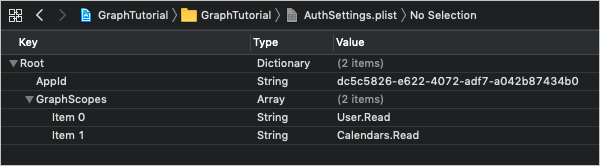
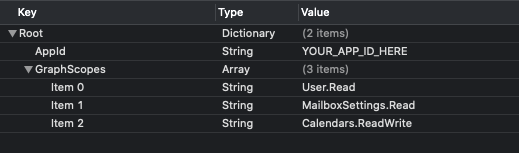
Update auth step

diff --git a/tutorial/04-add-aad-auth.md b/tutorial/04-add-aad-auth.md
@@ -8,9 +8,9 @@ In this exercise you will extend the application from the previous exercise to s
     | Key | Type | Value |
     |-----|------|-------|
     | `AppId` | String | The application ID from the Azure portal |
-    | `GraphScopes` | Array | Two String values: `User.Read` and `Calendars.Read` |
+    | `GraphScopes` | Array | Three String values: `User.Read`, `MailboxSettings.Read`, and `Calendars.ReadWrite` |
 
-    ![A screenshot of the AuthSettings.plist file in Xcode](./images/auth-settings.png)
+    ![A screenshot of the AuthSettings.plist file in Xcode](images/auth-settings.png)
 
 > [!IMPORTANT]
 > If you're using source control such as git, now would be a good time to exclude the **AuthSettings.plist** file from source control to avoid inadvertently leaking your app ID.
@@ -76,7 +76,7 @@ In this section you will configure the project for MSAL, create an authenticatio
 
 If you sign in to the app, you should see an access token displayed in the output window in Xcode.
 
-![A screenshot of the output window in Xcode showing an access token](./images/access-token-output.png)
+![A screenshot of the output window in Xcode showing an access token](images/access-token-output.png)
 
 ## Get user details
 
@@ -102,7 +102,8 @@ In this section you will create a helper class to hold all of the calls to Micro
 
         public func getMe(completion: @escaping(MSGraphUser?, Error?) -> Void) {
             // GET /me
-            let meRequest = NSMutableURLRequest(url: URL(string: "\(MSGraphBaseURL)/me")!)
+            let select = "$select=displayName,mail,mailboxSettings,userPrincipalName"
+            let meRequest = NSMutableURLRequest(url: URL(string: "\(MSGraphBaseURL)/me?\(select)")!)
             let meDataTask = MSURLSessionDataTask(request: meRequest, client: self.client, completion: {
                 (data: Data?, response: URLResponse?, graphError: Error?) in
                 guard let meData = data, graphError == nil else {
@@ -131,10 +132,11 @@ In this section you will create a helper class to hold all of the calls to Micro
     import MSGraphClientModels
     ```
 
-1. Add the following property to the `WelcomeViewController` class.
+1. Add the following properties to the `WelcomeViewController` class.
 
     ```Swift
     private let spinner = SpinnerViewController()
+    private var userTimeZone: String = "UTC";
     ```
 
 1. Replace the existing `viewDidLoad` with the following code.

diff --git a/tutorial/03-register-app.md b/tutorial/03-register-app.md
@@ -6,7 +6,7 @@ In this exercise you will create a new Azure AD native application using the Azu
 
 1. Select **Azure Active Directory** in the left-hand navigation, then select **App registrations** under **Manage**.
 
-    ![A screenshot of the App registrations ](./images/aad-portal-app-registrations.png)
+    ![A screenshot of the App registrations ](images/aad-portal-app-registrations.png)
 
 1. Select **New registration**. On the **Register an application** page, set the values as follows.
 
@@ -14,11 +14,11 @@ In this exercise you will create a new Azure AD native application using the Azu
     - Set **Supported account types** to **Accounts in any organizational directory and personal Microsoft accounts**.
     - Leave **Redirect URI** empty.
 
-    ![A screenshot of the Register an application page](./images/aad-register-an-app.png)
+    ![A screenshot of the Register an application page](images/aad-register-an-app.png)
 
 1. Select **Register**. On the **iOS Swift Graph Tutorial** page, copy the value of the **Application (client) ID** and save it, you will need it in the next step.
 
-    ![A screenshot of the application ID of the new app registration](./images/aad-application-id.png)
+    ![A screenshot of the application ID of the new app registration](images/aad-application-id.png)
 
 1. Select **Authentication** under **Manage**. Select **Add a platform**, then **iOS / macOS**.
 
